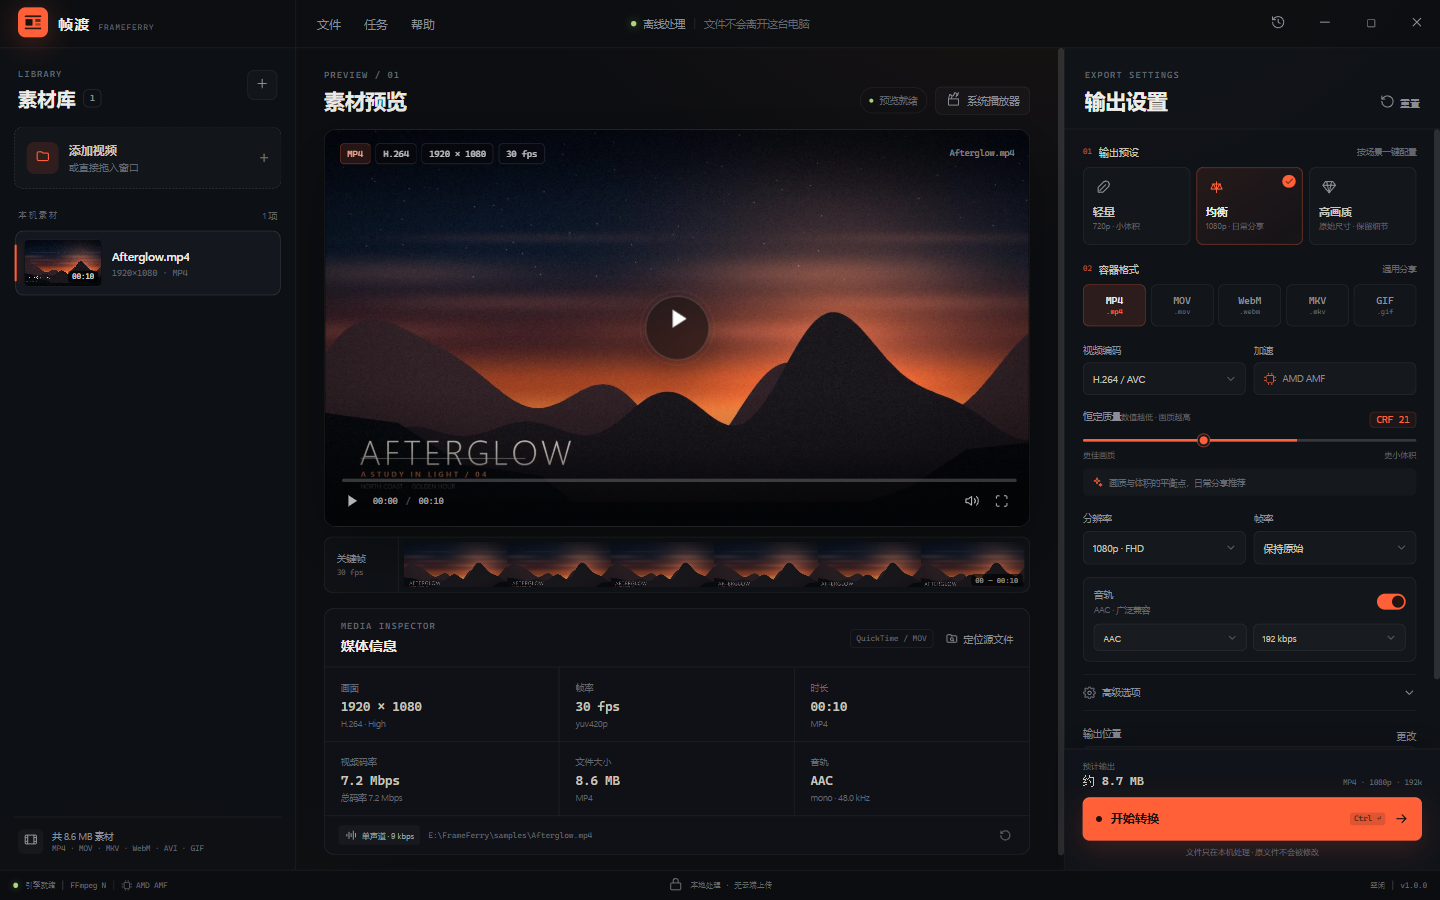
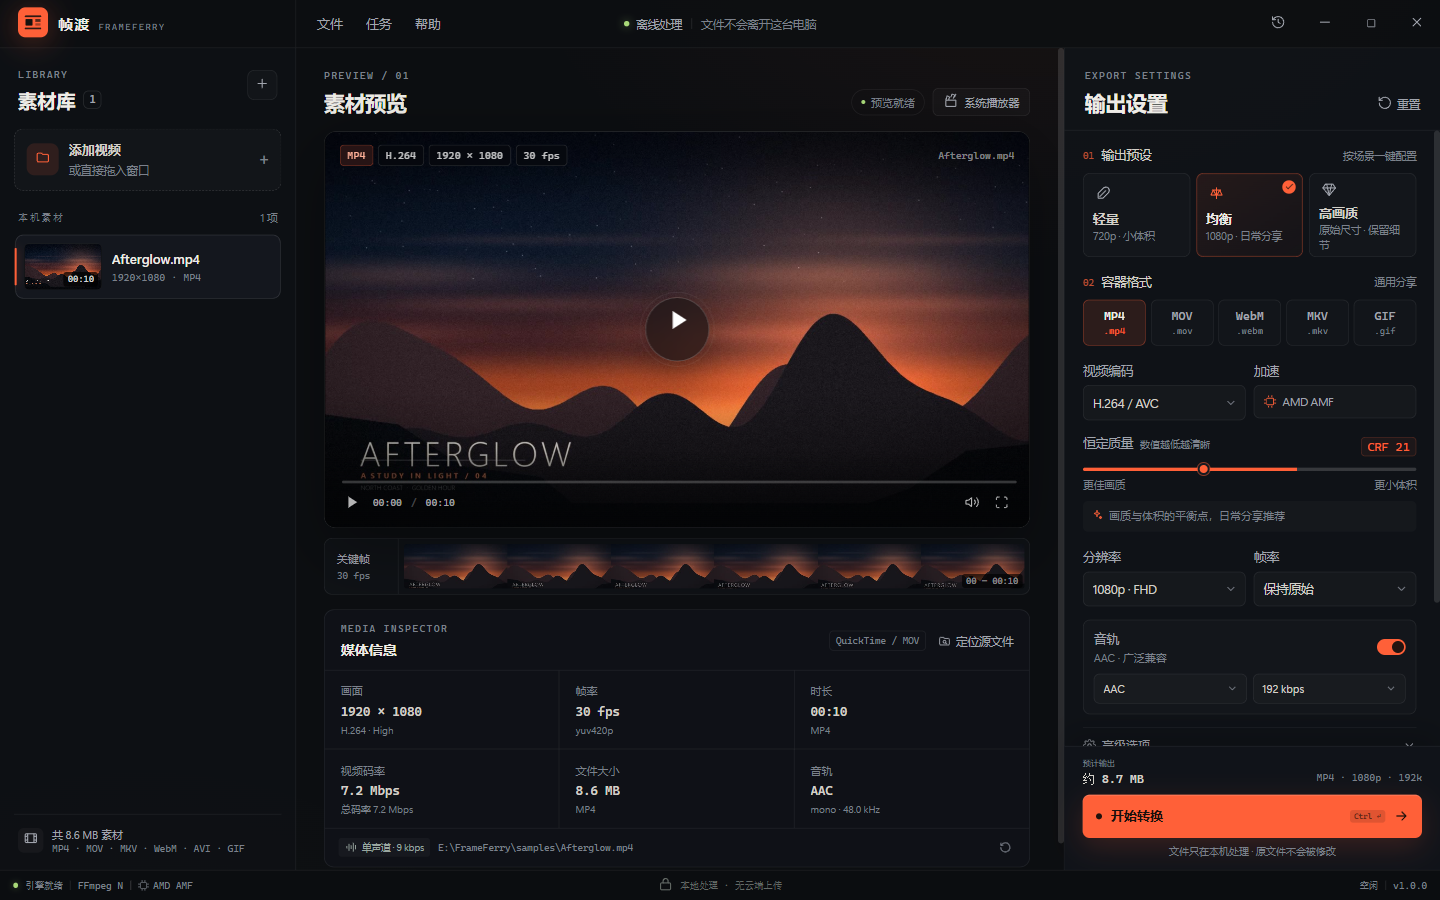
fix: 提升界面文字可读性
设置面板控件字号提升到 12–13px，辅助信息不低于 10px；提高深色界面的次要文字对比度，优化质量控制提示与默认文件夹区域；更新截图和验收文档。

diff --git a/renderer/styles.css b/renderer/styles.css
@@ -8,9 +8,9 @@
   --line: rgba(255, 255, 255, 0.075);
   --line-strong: rgba(255, 255, 255, 0.13);
   --text: #eeece6;
-  --text-soft: #c8c5bd;
-  --muted: #8b8e97;
-  --dim: #62666f;
+  --text-soft: #d3d0c8;
+  --muted: #a1a5ae;
+  --dim: #7c818b;
   --accent: #ff6038;
   --accent-soft: rgba(255, 96, 56, 0.12);
   --accent-line: rgba(255, 96, 56, 0.38);
@@ -3015,4 +3015,337 @@ input:focus-visible {
     padding-left: 12px;
     padding-right: 12px;
   }
+}
+
+/* ---------- Readability ---------- */
+/* 中文界面优先保证可读性：控件 12–13px，辅助信息不低于 10px。 */
+.eyebrow {
+  font-size: 10px;
+  letter-spacing: 0.13em;
+}
+
+.brand-en {
+  font-size: 9px;
+}
+
+.menu-trigger,
+.menu-item {
+  font-size: 13px;
+}
+
+.menu-shortcut {
+  font-size: 10.5px;
+}
+
+.menu-status {
+  font-size: 11.5px;
+}
+
+.titlebar-center {
+  font-size: 11.5px;
+}
+
+.import-card strong {
+  font-size: 13px;
+}
+
+.import-card small {
+  font-size: 11.5px;
+}
+
+.count-pill {
+  font-size: 10.5px;
+}
+
+.rail-section-head {
+  font-size: 10px;
+}
+
+.rail-section-head span:last-child {
+  font-size: 10.5px;
+}
+
+.source-name {
+  font-size: 13px;
+}
+
+.source-meta {
+  font-size: 10px;
+}
+
+.thumb-duration {
+  font-size: 9px;
+}
+
+.rail-empty p {
+  font-size: 13px;
+}
+
+.rail-empty span {
+  font-size: 11.5px;
+}
+
+.rail-footer span {
+  font-size: 11px;
+}
+
+.rail-footer small {
+  font-size: 9.5px;
+}
+
+.engine-chip,
+.ghost-button {
+  font-size: 11px;
+}
+
+.stage-badges span,
+.stage-filename,
+.stage-time {
+  font-size: 10px;
+}
+
+.filmstrip-label span:first-child {
+  font-size: 11px;
+}
+
+.filmstrip-label span:last-child {
+  font-size: 9.5px;
+}
+
+.filmstrip-index {
+  font-size: 8.5px;
+}
+
+.fact-label {
+  font-size: 11px;
+}
+
+.fact-meta {
+  font-size: 10px;
+}
+
+.format-pill,
+.asset-path,
+.track-state,
+.empty-hint {
+  font-size: 9.5px;
+}
+
+.text-button {
+  font-size: 11.5px;
+}
+
+.group-head {
+  font-size: 12.5px;
+}
+
+.group-index {
+  font-size: 9.5px;
+}
+
+.group-hint {
+  font-size: 10.5px;
+}
+
+.preset-card {
+  height: 84px;
+}
+
+.preset-name {
+  font-size: 13px;
+}
+
+.preset-sub {
+  font-size: 10.5px;
+  line-height: 1.4;
+}
+
+.format-chip {
+  height: 46px;
+}
+
+.format-chip span {
+  font-size: 11.5px;
+}
+
+.format-chip small {
+  font-size: 9px;
+}
+
+.field-label {
+  gap: 6px;
+  font-size: 12.5px;
+}
+
+.quality-head .field-label {
+  gap: 7px;
+}
+
+.field-hint {
+  font-size: 10px;
+}
+
+.select-shell {
+  height: 35px;
+}
+
+.select-shell select {
+  font-size: 12.5px;
+}
+
+.select-shell.slim {
+  height: 30px;
+}
+
+.select-shell.slim select {
+  font-size: 11px;
+}
+
+.static-field {
+  font-size: 11.5px;
+}
+
+.quality-value {
+  font-size: 12px;
+}
+
+.quality-scale {
+  font-size: 10.5px;
+}
+
+.quality-note {
+  font-size: 11px;
+  line-height: 1.55;
+}
+
+.audio-sub {
+  font-size: 11px;
+}
+
+.advanced-toggle {
+  font-size: 12px;
+}
+
+.toggle-row strong {
+  font-size: 12px;
+}
+
+.toggle-row small {
+  font-size: 10.5px;
+  line-height: 1.5;
+}
+
+.advanced-meta {
+  font-size: 10.5px;
+}
+
+.output-name {
+  font-size: 11.5px;
+}
+
+.output-dir {
+  font-size: 10px;
+}
+
+.default-folder-label {
+  font-size: 10.5px;
+}
+
+.default-folder-path {
+  font-size: 10.5px;
+}
+
+.default-folder-set {
+  font-size: 11px;
+}
+
+.estimate-label {
+  font-size: 10.5px;
+}
+
+.estimate-spec {
+  font-size: 10px;
+}
+
+.convert-button {
+  font-size: 13px;
+}
+
+.convert-note {
+  font-size: 10px;
+}
+
+.queue-head > span {
+  font-size: 11px;
+}
+
+.queue-name {
+  font-size: 10.5px;
+}
+
+.queue-meta {
+  font-size: 9.5px;
+}
+
+.dock-queue-block .queue-head > span {
+  font-size: 10px;
+}
+
+.dock-queue-block .queue-name {
+  font-size: 10.5px;
+}
+
+.dock-queue-block .queue-meta {
+  font-size: 9.5px;
+}
+
+.statusbar {
+  font-size: 9.5px;
+}
+
+.toast-copy strong {
+  font-size: 12px;
+}
+
+.toast-copy span {
+  font-size: 10.5px;
+}
+
+.history-main strong,
+.history-meta strong {
+  font-size: 11.5px;
+}
+
+.history-main span,
+.history-meta span {
+  font-size: 10px;
+}
+
+.history-format {
+  font-size: 9.5px;
+}
+
+.modal-footnote,
+.modal-note {
+  font-size: 10px;
+}
+
+.about-hero p {
+  font-size: 11.5px;
+}
+
+.about-grid span {
+  font-size: 10px;
+}
+
+.about-grid strong {
+  font-size: 10.5px;
+}
+
+.about-note {
+  font-size: 10.5px;
+}
+
+.about-stack span {
+  font-size: 9px;
 }

diff --git a/renderer/app.js b/renderer/app.js
@@ -489,7 +489,7 @@ function renderSettings() {
     ${!isProres && !isGif ? `
     <div class="settings-group quality-group">
       <div class="quality-head">
-        <div class="field-label"><span>恒定质量</span><span class="field-hint">数值越低 · 画质越高</span></div>
+        <div class="field-label"><span>恒定质量</span><span class="field-hint">数值越低越清晰</span></div>
         <span class="quality-value" id="quality-value">CRF ${settings.quality}</span>
       </div>
       <input class="quality-slider" id="quality-slider" type="range" min="16" max="30" step="1" value="${settings.quality}"

diff --git a/README.md b/README.md
@@ -41,6 +41,7 @@ E:\FrameFerry\FrameFerry.exe
 - **默认保存文件夹**：设置一次，后续新素材自动使用该目录；可随时更改或恢复「跟随源文件」。选择会写入本机 `settings.json`，重启后仍然有效。
 - **动作 Dock**：预计体积、主操作「开始转换」、当前/最近任务和进度常驻在视线内。
 - **桌面细节**：`Ctrl+O` 添加、`Ctrl+Enter` 转换、空格播放/暂停、`Esc` 关闭浮层；系统保存对话框；输出文件在资源管理器中定位。
+- **可读性**：中文控件字号 11–13px，辅助信息不低于 10px；深色界面的次要文字提高亮度，优先保证「看得清」而不是一味塞信息。
 
 ![输出位置与默认文件夹](docs/screenshots/output-settings.png)
 

diff --git a/docs/TEST_REPORT.md b/docs/TEST_REPORT.md
@@ -23,6 +23,7 @@
 | 单实例 | 重复启动 | 复用已有窗口（主进程单实例锁） |
 | 布局 | 1440×900 | 无横向溢出；主按钮 Dock 常驻可见 |
 | 无 renderer error | DevTools Protocol 收集 `Runtime.exceptionThrown` / `console.error` | 0 条 |
+| 可读性 | 1440×900 视觉检查 | 设置面板控件 12–13px、辅助信息 ≥10px、次要文字对比度提升；无关键操作被挤出首屏 |
 
 截图：
 
